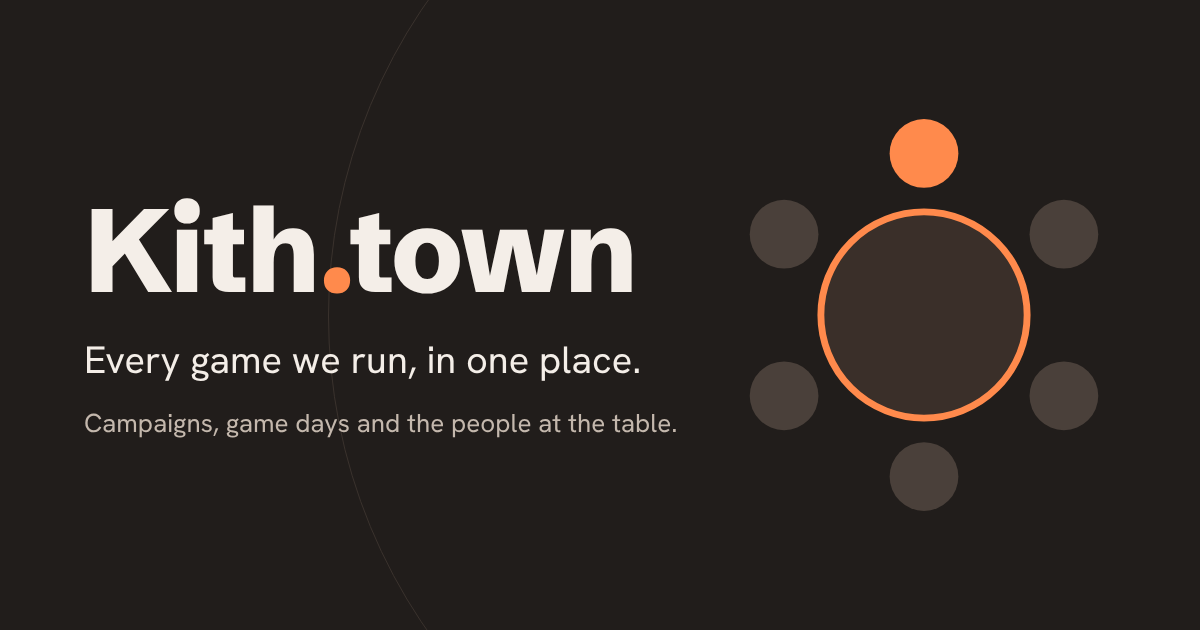
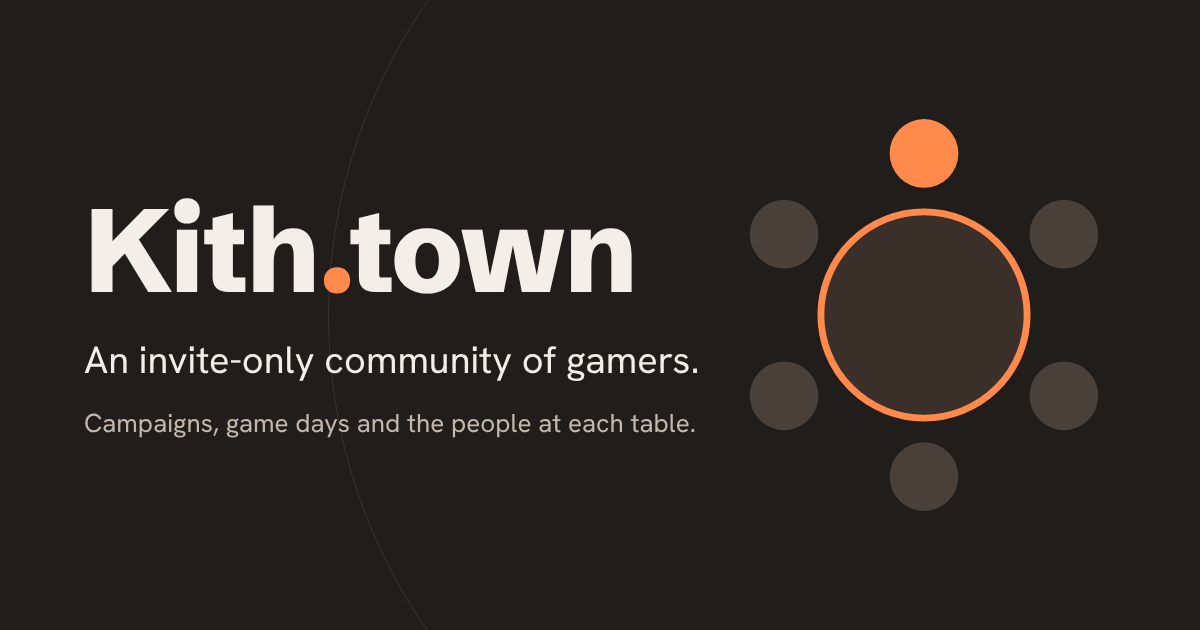
Describe Kith.town as an invite-only community of gamers (#212)
<!-- claude-projects-attribution: {"github_login":"alxjrvs"} -->
_Requested by **Jrvs** · [project
thread](https://claude.ai/code/project/chan_01GnqRtTo9KdcExemdHv6WTU?thread=cmsg_01GnqRtTo9KdcExemdHv6WTUJhhCbR9Hc6dT4FyD1pbRTA)_

Jrvs's seed: "Kith.town is an invite-only community of gamers." The site
now describes itself with it.

- **Link previews** (`web/index.html`): description, `og:description`
and `twitter:description` are "Kith.town is an invite-only community of
gamers. Campaigns, game days and the people at each table."
- **Kith card image** (`public/og.png`, from
`scripts/og/kith-card.html`): "An invite-only community of gamers."
under the wordmark.
- **Landing slideshow**: a short line "An invite-only community of
gamers." beside the wordmark on every slide and on a signed-out game
page (stacked under it on phones). With no games to show, the big
heading says it instead of "Every game we run, in one place."

Not changed: the signed-in Home heading, which comes from the CMS home
section.

Tests: 1430 passed, typecheck clean, /code-review found no issues.

Refs: none

---
_Generated by [Claude Code](https://claude.ai/code)_

Changed region(s): [[0.0617, 0.5429, 0.5858, 0.6032], [0.4625, 0.6635, 0.5858, 0.6937]]

diff --git a/web/index.html b/web/index.html
@@ -12,20 +12,20 @@
     <link rel="icon" href="/favicon.svg" type="image/svg+xml" />
     <link rel="icon" href="/icon-192.png" sizes="192x192" type="image/png" />
     <link rel="apple-touch-icon" href="/apple-touch-icon.png" />
-    <meta name="description" content="Every game we run, in one place: campaigns, game days, dates, links and what each table knows." />
+    <meta name="description" content="Kith.town is an invite-only community of gamers. Campaigns, game days and the people at each table." />
     <!-- Link previews (Discord, iMessage, Slack, Bluesky...). A game's pages get their own from the Worker (src/http/social-card.ts). -->
     <meta property="og:site_name" content="Kith.town" />
     <meta property="og:type" content="website" />
     <meta property="og:url" content="https://kith.town/" />
     <meta property="og:title" content="Kith.town" />
-    <meta property="og:description" content="Every game we run, in one place: campaigns, game days, dates, links and what each table knows." />
+    <meta property="og:description" content="Kith.town is an invite-only community of gamers. Campaigns, game days and the people at each table." />
     <meta property="og:image" content="https://kith.town/og.png" />
     <meta property="og:image:width" content="1200" />
     <meta property="og:image:height" content="630" />
     <meta property="og:image:alt" content="Kith.town: a round table with six seats, one lit." />
     <meta name="twitter:card" content="summary_large_image" />
     <meta name="twitter:title" content="Kith.town" />
-    <meta name="twitter:description" content="Every game we run, in one place: campaigns, game days, dates, links and what each table knows." />
+    <meta name="twitter:description" content="Kith.town is an invite-only community of gamers. Campaigns, game days and the people at each table." />
     <meta name="twitter:image" content="https://kith.town/og.png" />
     <link rel="preconnect" href="https://fonts.googleapis.com" />
     <link rel="preconnect" href="https://fonts.gstatic.com" crossorigin />

diff --git a/web/src/pages/Landing.tsx b/web/src/pages/Landing.tsx
@@ -27,19 +27,21 @@ export function Landing() {
 
   return (
     <div className="show">
-      <Top />
+      <Top about={!homes.isPending && slides.length > 0} />
       {homes.isPending ? null : slides.length === 0 ? <Empty /> : <Slides slides={slides} />}
     </div>
   );
 }
 
-function Top() {
+/** The name, and on the slides what Kith is (the empty room says it larger). */
+function Top({ about }: { about: boolean }) {
   return (
     <header className="show-top">
       <Link to="/" className="wordmark" style={{ fontSize: 26 }}>
         <img src="/mark.svg" alt="" width="26" height="26" />
         Kith.town
       </Link>
+      {about ? <p className="show-about">An invite-only community of gamers.</p> : null}
     </header>
   );
 }
@@ -50,7 +52,7 @@ function Empty() {
     <>
       <img className="show-mark" src="/mark.svg" alt="" aria-hidden="true" />
       <div className="show-slide-words" style={{ position: "relative" }}>
-        <h1>Every game we run, in one place.</h1>
+        <h1>An invite-only community of gamers.</h1>
         <p className="show-tagline">Most tables show only to the people on them.</p>
       </div>
       <Footer />
@@ -165,7 +167,7 @@ export function StillSlide({ game, action }: { game: GameSummary; action?: React
   useNoScroll();
   return (
     <div className="show">
-      <Top />
+      <Top about />
       <section className="show-slides">
         <Slide game={game} current still position="" />
       </section>

diff --git a/web/src/styles.css b/web/src/styles.css
@@ -253,6 +253,7 @@ img { max-width: 100%; }
 html.no-scroll, html.no-scroll body { overflow: hidden; height: 100%; }
 .show { position: relative; height: 100vh; height: 100dvh; overflow: hidden; display: flex; flex-direction: column; background: var(--deep); }
 .show-top { position: relative; z-index: 2; display: flex; align-items: center; justify-content: space-between; padding: 20px 32px; }
+.show-about { margin: 0; font-size: 15px; color: color-mix(in srgb, var(--text) 85%, transparent); text-shadow: 0 1px 6px var(--deep); }
 .show-slides { position: absolute; inset: 0; }
 .show-slides { overflow: hidden; }
 .show-slide { position: absolute; inset: 0; display: flex; flex-direction: column; justify-content: flex-end; visibility: hidden; }
@@ -301,7 +302,7 @@ html.no-scroll, html.no-scroll body { overflow: hidden; height: 100%; }
 }
 
 @media (max-width: 640px) {
-  .show-top { padding: 16px; }
+  .show-top { padding: 16px; flex-direction: column; align-items: flex-start; gap: 6px; }
   .show-slide-words { padding: 0 16px 136px; }
   .show-bottom { padding: 16px 16px 20px; flex-direction: column-reverse; align-items: stretch; }
   .show-bottom .row { justify-content: space-between; }

diff --git a/scripts/og/kith-card.html b/scripts/og/kith-card.html
@@ -13,5 +13,5 @@ p.m{color:#c4b8ad;font-size:26px;margin-top:22px}
 </style></head><body>
 <div class="ring" style="width:1100px;height:1100px;right:-230px;top:-235px"></div>
 <svg class="mark" viewBox="0 0 128 128"><circle cx="64" cy="64" r="30" fill="#3a2f29" stroke="#ff8a4c" stroke-width="2"/><circle cx="64.0" cy="17.0" r="10" fill="#ff8a4c"/><circle cx="104.7" cy="40.5" r="10" fill="#4a403a"/><circle cx="104.7" cy="87.5" r="10" fill="#4a403a"/><circle cx="64.0" cy="111.0" r="10" fill="#4a403a"/><circle cx="23.3" cy="87.5" r="10" fill="#4a403a"/><circle cx="23.3" cy="40.5" r="10" fill="#4a403a"/></svg>
-<div class="words"><h1>Kith<span>.</span>town</h1><p>Every game we run, in one place.</p><p class="m">Campaigns, game days and the people at the table.</p></div>
+<div class="words"><h1>Kith<span>.</span>town</h1><p>An invite-only community of gamers.</p><p class="m">Campaigns, game days and the people at each table.</p></div>
 </body></html>
